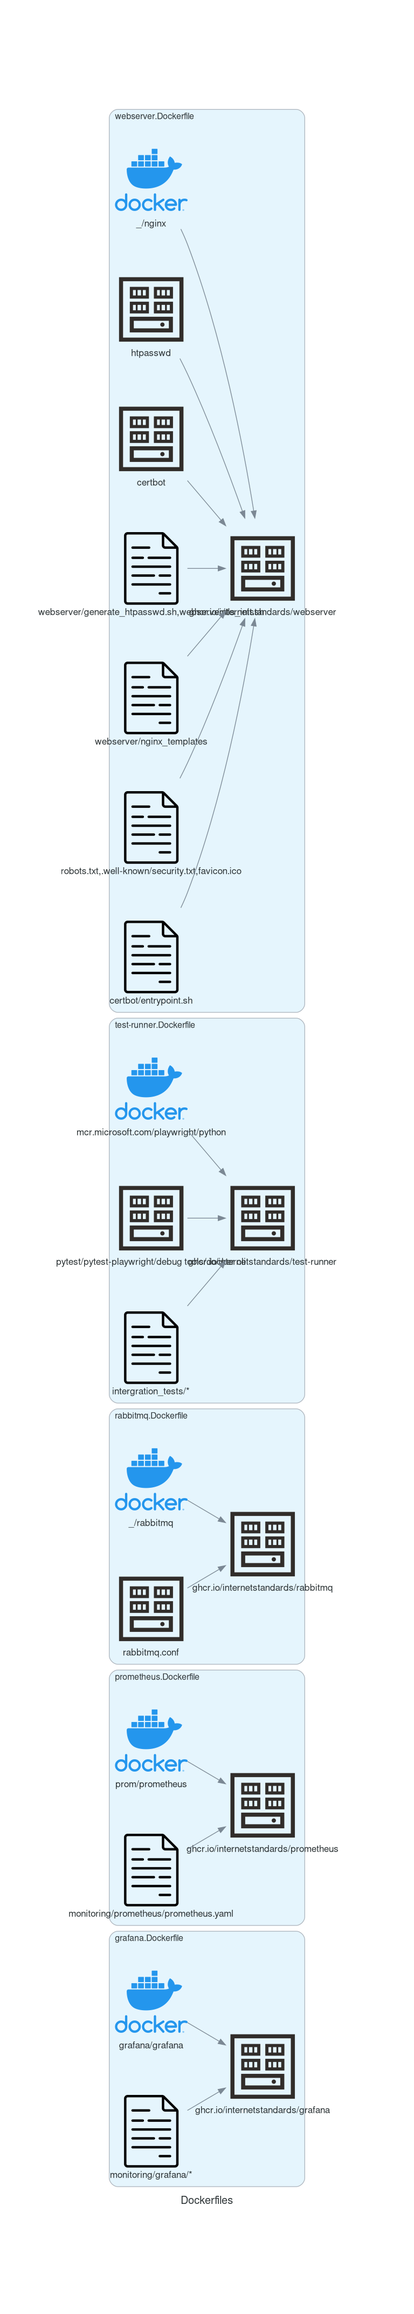
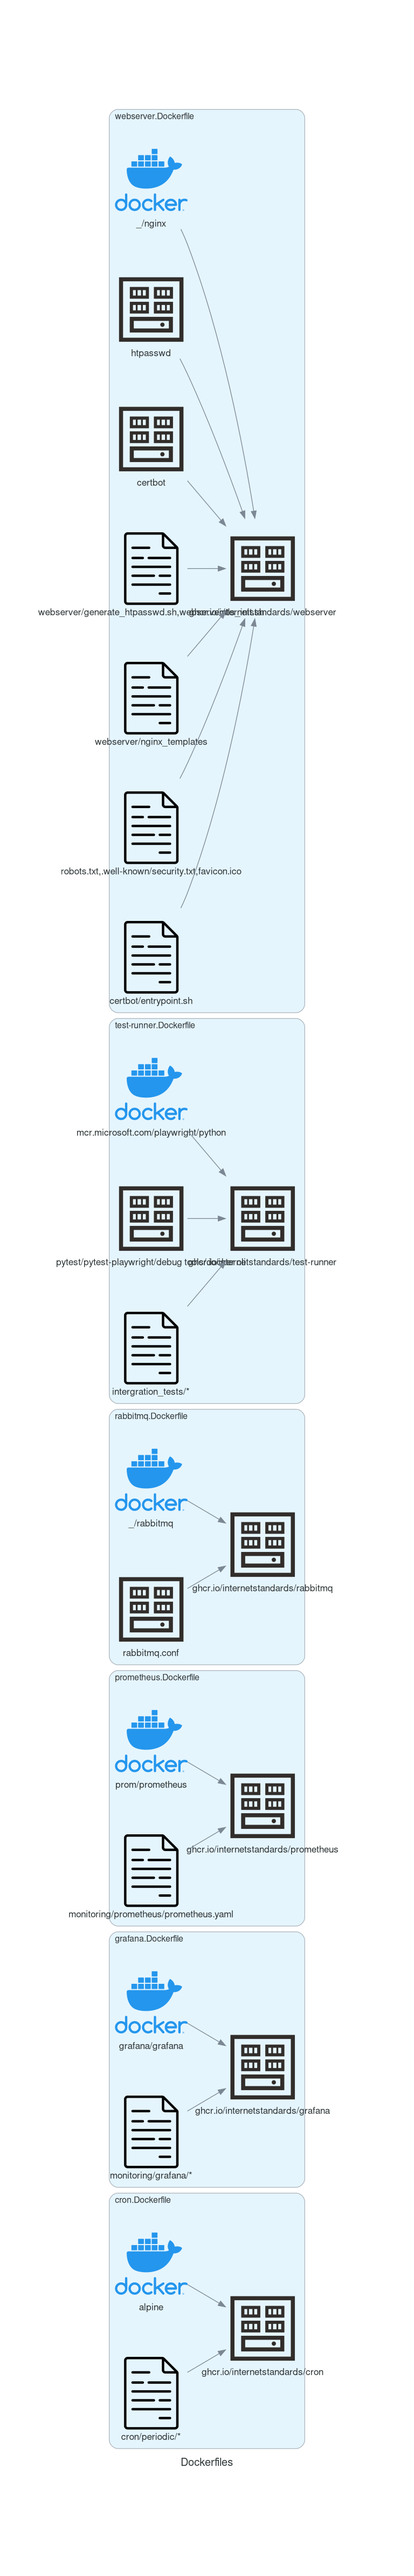
Implement cron scheduler and manual hall of fame for hosters

Changed region(s): [[0.25, 0.0312, 0.75, 0.9688], [0.4688, 0.1875, 0.7188, 0.2812]]

diff --git a/integration_tests/integration/conftest.py b/integration_tests/integration/conftest.py
@@ -93,3 +93,19 @@ def docker_compose_logs():
 
 def print_results_url(page):
     print(f"\nResults page url: {page.url.replace(APP_URL,  INTEGRATIONTEST_APP_URL)}")
+
+
+@pytest.fixture(scope="session")
+def docker_compose_exec():
+    """Execute specific command in a service container"""
+
+    yield lambda service, command: subprocess.check_output(
+        f"docker compose --ansi=never --project-name=internetnl-test exec {service} {command}", shell=True
+    )
+
+
+@pytest.fixture(scope="session")
+def trigger_cron(docker_compose_exec):
+    """Trigger specific cron job manually"""
+
+    yield lambda cron: docker_compose_exec("cron", f"/etc/periodic/{cron}")

diff --git a/documentation/images/dockerfiles.py b/documentation/images/dockerfiles.py
@@ -28,6 +28,12 @@ graph_attr = {
 }
 
 with Diagram(NAME, show=False, direction="LR", outformat=["png"], graph_attr=graph_attr):
+    with Cluster("cron.Dockerfile"):
+        [
+            DockerHub("alpine"),
+            File("cron/periodic/*"),
+        ] >> Image("ghcr.io/internetstandards/cron")
+
     with Cluster("grafana.Dockerfile"):
         [
             DockerHub("grafana/grafana"),
@@ -129,3 +135,4 @@ with Diagram("Dockerfile", show=False, direction="LR", outformat=["png"], graph_
         build_app >> image_linttest
         build_linttest_deps >> Edge(label="dev dependencies") >>  image_linttest
         tools_dependencies >> image_linttest
+

diff --git a/integration_tests/integration/test_basic.py b/integration_tests/integration/test_basic.py
@@ -168,3 +168,17 @@ def test_accept_language_header(page, app_domain, language, footer_text):
 
     footer = page.locator("#footer")
     assert footer_text in footer.text_content()
+
+
+def test_cron_manual_hosters_hof(page, app_url, trigger_cron):
+    """Test if manual hosters file can be downloaded and parsed."""
+
+    trigger_cron("15min/download_hof")
+
+    page.goto(app_url)
+    page.get_by_role("link", name="Hall of Fame", exact=True).click()
+    page.get_by_text("Hosters").click()
+
+    hof_content = page.locator(".hof-content")
+
+    assert "The 51 hosters mentioned below" in hof_content.text_content()

diff --git a/interface/views/shared.py b/interface/views/shared.py
@@ -270,10 +270,11 @@ def get_hof_mail(count=100000):
 def get_hof_manual(manual):
     hof_entries = []
     try:
-        with open(settings.MANUAL_HOF[manual]["entries_file"]) as f:
+        with open(settings.MANUAL_HOF[manual]["entries_file"], encoding="utf-8") as f:
             hof_entries = yaml.load(f, Loader=yaml.Loader)
     except Exception:
-        pass
+        log.exception("failed to load manual hof")
+
     random.shuffle(hof_entries)
     return (len(hof_entries), hof_entries)
 
